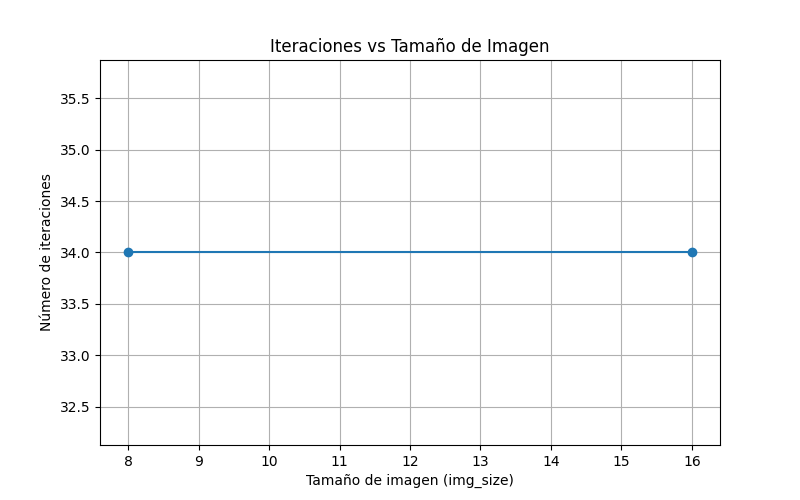
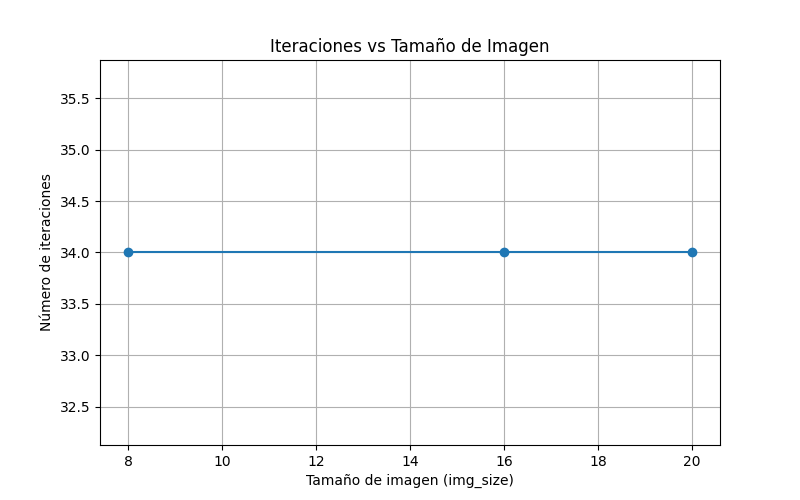
latex table, add img_size

diff --git a/run_experiment_scale_dependency.py b/run_experiment_scale_dependency.py
@@ -8,48 +8,38 @@ import matplotlib.pyplot as plt
 from skimage.metrics import peak_signal_noise_ratio as psnr
 import numpy as np
 
-def plot_experiment(true,noisy,u, alpha):
-    
-    fig,ax = plt.subplots(1,3,figsize=(14,4))
-    ax[0].imshow(true,cmap='gray')
+def plot_experiment(true, noisy, u, alpha):
+    fig, ax = plt.subplots(1, 3, figsize=(14, 4))
+    ax[0].imshow(true, cmap='gray')
     ax[0].set_title('True Image')
     ax[0].axis('off')
-    ax[1].imshow(noisy,cmap='gray')
-    ax[1].set_title('Noisy Image\nPSNR: {:.4f}'.format(psnr(true,noisy)))
+    ax[1].imshow(noisy, cmap='gray')
+    ax[1].set_title('Noisy Image\nPSNR: {:.4f}'.format(psnr(true, noisy)))
     ax[1].axis('off')
-    ax[2].imshow(u,cmap='gray')
-    ax[2].set_title(f'Reconstructed Image\nPSNR: {psnr(true,u):.4f}\n alpha = {alpha}')
-    # ax[2].set_xlabel('alpha = {}'.format(alpha))
+    ax[2].imshow(u, cmap='gray')
+    ax[2].set_title(f'Reconstructed Image\nPSNR: {psnr(true, u):.4f}\n alpha = {alpha}')
     ax[2].axis('off')
-
     plt.show()
 
-def calc_theta(Ku,q):
-    Kxu = Ku[:n]  # Primeras n componentes
-    Kyu = Ku[n:]  # Últimas n componentes
-    qx = q[:n]  # Primeras n componentes
-    qy = q[n:]  # Últimas n componentes
+def calc_theta(Ku, q):
+    Kxu = Ku[:n]
+    Kyu = Ku[n:]
+    qx = q[:n]
+    qy = q[n:]
     epsilon = 1e-10
+    theta0 = np.zeros(n)
 
-    # Condiciones para calcular theta según los casos dados
-    theta0 = np.zeros(n)  # Inicializamos theta0
-
-    # Caso 1: r_i ≠ 0
     mask_r_nonzero = r0 > epsilon
     theta0[mask_r_nonzero] = np.arccos(Kxu[mask_r_nonzero] / r0[mask_r_nonzero])
-    theta0[mask_r_nonzero & (Kyu < 0)] *= -1  # Si Ky^i u < 0, negamos theta0
+    theta0[mask_r_nonzero & (Kyu < 0)] *= -1
 
-    # Caso 2: r_i = 0 y delta_i ≠ 0
     mask_r_zero_delta_nonzero = (r0 <= epsilon) & (delta0 > epsilon)
     theta0[mask_r_zero_delta_nonzero] = np.arccos(qx[mask_r_zero_delta_nonzero] / delta0[mask_r_zero_delta_nonzero])
-    theta0[mask_r_zero_delta_nonzero & (qy < 0)] *= -1  # Si qy^i < 0, negamos theta0
+    theta0[mask_r_zero_delta_nonzero & (qy < 0)] *= -1
 
-    # Caso 3: r_i = 0 y delta_i = 0 (theta0 indefinido)
     mask_r_zero_delta_zero = (r0 <= epsilon) & (delta0 <= epsilon)
     theta0[mask_r_zero_delta_zero] = 0
     return theta0
-
-config_path = "config/scale_dependency.yml"
 
 def load_class(path: str):
     module_path, class_name = path.rsplit(".", 1)
@@ -59,12 +49,12 @@ def load_class(path: str):
 def generate_tables(h5_path="outputs/results_mpcc_vs_img_size.h5",
     plot_output="outputs/iterations_vs_img_size.png",
     latex_output="outputs/tabla_iteraciones.tex"):
+
     if not os.path.exists(h5_path):
         print(f"Archivo HDF5 no encontrado: {h5_path}")
         return
 
     data = []
-
     with h5py.File(h5_path, "r") as h5f:
         for group_name in h5f.keys():
             if group_name.startswith("img_size_"):
@@ -72,15 +62,11 @@ def generate_tables(h5_path="outputs/results_mpcc_vs_img_size.h5",
                     img_size = int(group_name.replace("img_size_", ""))
                     iterations = int(h5f[group_name]["iterations"][()])
                     data.append({"img_size": img_size, "iterations": iterations})
-                except KeyError as e:
-                    print(f"Faltan datos en {group_name}: {e}")
                 except Exception as e:
                     print(f"Error leyendo {group_name}: {e}")
 
     if data:
         df = pd.DataFrame(data).sort_values(by="img_size")
-
-        # sGraficar
         plt.figure(figsize=(8, 5))
         plt.plot(df["img_size"], df["iterations"], marker='o')
         plt.xlabel("Tamaño de imagen (img_size)")
@@ -91,19 +77,16 @@ def generate_tables(h5_path="outputs/results_mpcc_vs_img_size.h5",
         plt.show()
         print(f"Gráfico guardado en {plot_output}")
 
-        # Crear código LaTeX
         latex_code = df.to_latex(index=False, caption="Número de iteraciones por tamaño de imagen", label="tab:iteraciones")
 
-        # Guardar código en archivo .tex
         with open(latex_output, "w") as f:
             f.write(latex_code)
         print(f"Código LaTeX guardado en {latex_output}")
     else:
         print("No se encontraron datos de iteraciones.")
 
-def generate_figures():
-    pass
 
+config_path = "config/scale_dependency.yml"
 output_file = "results_mpcc_vs_img_size.h5"
 os.makedirs("outputs", exist_ok=True)
 
@@ -112,47 +95,66 @@ if __name__ == "__main__":
         config = yaml.safe_load(f)
 
     experiment_config = config["experiment"]
-    print(experiment_config,type(experiment_config))
     dataset_config = experiment_config["dataset"]
-    model_config = experiment_config.get("model")
-    dataset_name = dataset_config.get("dataset_name")
-    dataset__img_sizes = dataset_config.get("dataset__img_size")
-    model_name = model_config.get("model_name")
-    model_reg_name = model_config.get("model_reg_name")
+    model_config = experiment_config["model"]
+    dataset_name = dataset_config["dataset_name"]
+    dataset__img_sizes = dataset_config["dataset__img_size"]
+    model_name = model_config["model_name"]
+    model_reg_name = model_config["model_reg_name"]
+
+    # Detectar tamaños ya guardados
+    h5_existing_sizes = set()
+    if os.path.exists(os.path.join("outputs", output_file)):
+        with h5py.File(os.path.join("outputs", output_file), "r") as h5f:
+            h5_existing_sizes = set(h5f.keys())
 
     for img_size in dataset__img_sizes:
+        group_name = f"img_size_{img_size}"
+        if group_name in h5_existing_sizes:
+            print(f" img_size {img_size} ya procesado. Se omite.")
+            continue
 
-        print(f"Running experiment with image size: {img_size}")
-
-        dataset = get_dataset("cameraman",scale=img_size)
+        print(f" Ejecutando experimento con img_size = {img_size}")
+        dataset = get_dataset("cameraman", scale=img_size)
         true, noisy = dataset.get_training_data()
 
         model_reg_class = load_class(model_reg_name)
-        model_reg_instance = model_reg_class(true, noisy,model_config["model_epsilon"])
-        res, x_opt, fun_opt =   model_reg_instance.solve(max_iter = model_config["max_iter_reg"], tol = float(model_config["tol"]), print_level=5)
+        model_reg_instance = model_reg_class(true, noisy, model_config["model_epsilon"])
+        res, x_opt, fun_opt = model_reg_instance.solve(
+            max_iter=model_config["max_iter_reg"],
+            tol=float(model_config["tol"]),
+            print_level=5
+        )
+
         u, q, alpha = model_reg_instance.objective_func.parse_vars(x_opt)
-        u = u.reshape((img_size,img_size))
+        u = u.reshape((img_size, img_size))
         m = q.flatten().size
         n = m // 2
         Ku = model_reg_instance.K @ u.flatten()
         V = Ku.reshape(2, -1).T
         normKu = np.apply_along_axis(np.linalg.norm, axis=1, arr=V)
-        Q = q.reshape(2,-1).T
+        Q = q.reshape(2, -1).T
         normQ = np.apply_along_axis(np.linalg.norm, axis=1, arr=Q)
         r0 = normKu
         delta0 = normQ
-        theta0 = calc_theta(Ku,q)
-        x0_mpcc = np.concatenate((u.flatten(),q.flatten(),r0,delta0,theta0,alpha))
+        theta0 = calc_theta(Ku, q)
+        x0_mpcc = np.concatenate((u.flatten(), q.flatten(), r0, delta0, theta0, alpha))
+
         model_mpcc_class = load_class(model_name)
-        model_mpcc_instance = model_mpcc_class(true, noisy, x0 = x0_mpcc, epsilon = model_config["model_epsilon"])
-        res_mpcc,x_opt_mpcc,fun_opt_mpcc = model_mpcc_instance.solve(max_iter=model_config["max_iter"],tol=float(model_config["tol"]),print_level=0,verbose=True,beta=0.7)
+        model_mpcc_instance = model_mpcc_class(true, noisy, x0=x0_mpcc, epsilon=model_config["model_epsilon"])
+        res_mpcc, x_opt_mpcc, fun_opt_mpcc = model_mpcc_instance.solve(
+            max_iter=model_config["max_iter"],
+            tol=float(model_config["tol"]),
+            print_level=0,
+            verbose=True,
+            beta=0.7
+        )
+
         u_mpcc, q_mpcc, r_mpcc, delta_mpcc, theta_mpcc, alpha_mpcc = model_mpcc_instance.objective_func.parse_vars(x_opt_mpcc)
-        u_mpcc = u_mpcc.reshape((img_size,img_size))
-        print("res_mpcc:", res_mpcc) #para ver qué guarda res_mpcc
+        u_mpcc = u_mpcc.reshape((img_size, img_size))
 
         with h5py.File(os.path.join("outputs", output_file), "a") as h5f:
-            group = h5f.require_group(f"img_size_{img_size}")
-
+            group = h5f.require_group(group_name)
             group.create_dataset("iterations", data=res_mpcc["iter"])
             group.create_dataset("fun_opt", data=fun_opt_mpcc)
             group.create_dataset("u_mpcc", data=u_mpcc)
@@ -161,5 +163,5 @@ if __name__ == "__main__":
             group.create_dataset("r_mpcc", data=r_mpcc)
             group.create_dataset("delta_mpcc", data=delta_mpcc)
 
-
+    print("Todos los experimentos han finalizado correctamente.")
     generate_tables()

diff --git a/outputs/tabla_iteraciones.tex b/outputs/tabla_iteraciones.tex
@@ -7,6 +7,7 @@ img_size & iterations \\
 \midrule
 8 & 34 \\
 16 & 34 \\
+20 & 34 \\
 \bottomrule
 \end{tabular}
 \end{table}
